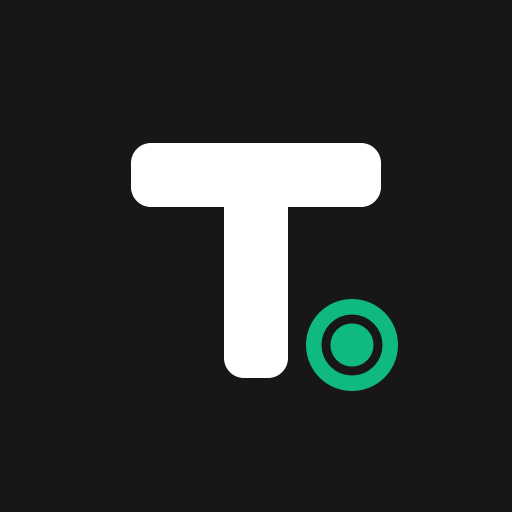
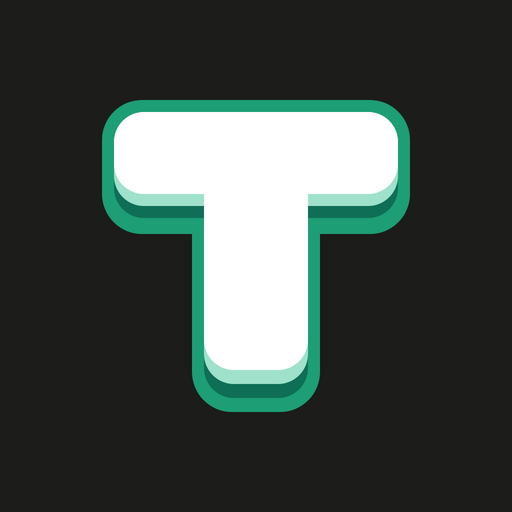
Titan 1.6.6

Changed region(s): [[0.1875, 0.1875, 0.8125, 0.8125]]

diff --git a/apps/web/src/features/settings/SettingsScreen.tsx b/apps/web/src/features/settings/SettingsScreen.tsx
@@ -56,7 +56,7 @@ export function SettingsScreen(props: { onOpenNotifications: () => void }) {
             Quyền riêng tư
           </a>
         </div>
-        <span className="rounded-xl bg-brand-50 px-3 py-1 text-sm font-extrabold text-brand-600">Titan 1.6.5</span>
+        <span className="rounded-xl bg-brand-50 px-3 py-1 text-sm font-extrabold text-brand-600">Titan 1.6.6</span>
       </section>
 
       <Sheet open={open === 'notify'} onClose={close} title="Thông báo" autoFocus={false}>

diff --git a/apps/web/index.html b/apps/web/index.html
@@ -4,6 +4,7 @@
     <meta charset="UTF-8" />
     <link rel="icon" type="image/svg+xml" href="/favicon.svg" />
     <link rel="icon" type="image/png" sizes="48x48" href="/favicon-48.png" />
+    <link rel="icon" href="/favicon.ico" sizes="any" />
     <link rel="apple-touch-icon" href="/apple-touch-icon.png" />
     <meta name="viewport" content="width=device-width, initial-scale=1, maximum-scale=1, user-scalable=no, viewport-fit=cover" />
     <meta name="theme-color" content="#f7f6f2" />

diff --git a/apps/web/vite.config.ts b/apps/web/vite.config.ts
@@ -40,7 +40,7 @@ export default defineConfig({
         icons: [
           { src: '/icon-192.png', sizes: '192x192', type: 'image/png', purpose: 'any' },
           { src: '/icon-512.png', sizes: '512x512', type: 'image/png', purpose: 'any' },
-          { src: '/icon-512.png', sizes: '512x512', type: 'image/png', purpose: 'maskable' },
+          { src: '/icon-maskable-512.png', sizes: '512x512', type: 'image/png', purpose: 'maskable' },
         ],
       },
     }),

diff --git a/apps/web/src/sw.ts b/apps/web/src/sw.ts
@@ -24,7 +24,7 @@ self.addEventListener('push', (event) => {
     self.registration.showNotification(data.title ?? 'Titan', {
       body: data.body ?? '',
       icon: '/icon-192.png',
-      badge: '/favicon-48.png',
+      badge: '/badge-48.png', // nền trong suốt: Android tô một màu theo hình
       data: { url: data.url ?? '/' },
     }),
   )

diff --git a/docs/13-logo-brief.md b/docs/13-logo-brief.md
@@ -1,0 +1,84 @@
+# Titan · Ghi chú thiết kế logo
+
+## 1. File cần gửi
+| Mục | Yêu cầu |
+|---|---|
+| Định dạng | **SVG** (nét nhất, phóng to không vỡ) và/hoặc **PNG** |
+| Kích thước | Vuông, tối thiểu **1024 × 1024 px** |
+| Nền | **Có màu nền kín** (không trong suốt). iPhone lấp phần trong suốt bằng màu đen |
+| Góc | **Vuông, không tự bo góc**. iPhone / Android tự bo, bo sẵn sẽ thành viền lạ |
+| Bản phụ (nên có) | Một bản **chỉ có hình, nền trong suốt** để dùng trong app (màn khởi động, thẻ Phiên bản) |
+
+## 2. Vùng an toàn
+- Hình chính nằm gọn trong **khung 80% ở giữa** (với file 1024 px: khoảng 820 × 820 px ở giữa).
+- Android có thể cắt icon thành **hình tròn** (bản "maskable"): chi tiết quan trọng nên nằm trong **vòng tròn đường kính 80%**.
+- Không đặt chữ, chi tiết nhỏ sát mép.
+
+## 3. Phải nhìn rõ ở cỡ nhỏ
+Logo sẽ hiện ở các cỡ:
+
+| Chỗ | Cỡ |
+|---|---|
+| Màn hình chính iPhone | 180 × 180 (hiển thị khoảng 60 pt) |
+| Icon app (PWA) | 192 × 192, 512 × 512 |
+| Tab trình duyệt | 48 × 48, 32 × 32, 16 × 16 |
+
+Thử thu logo xuống **48 px**: vẫn nhận ra thì đạt. Nên:
+- Hình khối đơn giản, nét dày; tránh nét mảnh dưới khoảng 2% chiều rộng.
+- Nhiều nhất 2–3 màu.
+- Nếu có chữ, chỉ nên 1 ký tự (ví dụ chữ "T"); chữ "Titan" đầy đủ sẽ không đọc được ở cỡ nhỏ.
+
+## 4. Màu của app
+
+### Xanh lá chủ đạo (brand)
+| Tên | Mã | Dùng trong app |
+|---|---|---|
+| brand-50 | `#E1F5EE` | Nền nhạt (ô thông tin, chip) |
+| brand-100 | `#C2ECDD` | |
+| brand-200 | `#9FE1CB` | Viền nhạt |
+| brand-300 | `#5DCAA5` | |
+| **brand-400** | **`#1D9E75`** | **Màu chính**: nút chính, thẻ hạn mức hôm nay, thanh tiến độ |
+| brand-500 | `#168A66` | Chữ / icon xanh đậm |
+| **brand-600** | **`#0F6E56`** | **Viền dưới nút 3D**, chữ trên nền nhạt |
+| brand-700 | `#0B5C48` | |
+| brand-800 | `#085041` | |
+| brand-900 | `#04342C` | Xanh rất đậm |
+
+Gợi ý cho logo: nền **`#1D9E75`** với hình trắng, hoặc nền trắng/kem với hình **`#1D9E75`** + chi tiết **`#0F6E56`**.
+
+### Màu nền & chữ (ink)
+| Tên | Mã | Dùng |
+|---|---|---|
+| ink-50 | `#F7F6F2` | **Nền trang** (kem nhạt), màu thanh trạng thái |
+| ink-100 | `#EFEDE6` | Nền ô xám |
+| ink-500 | `#888780` | Chữ phụ |
+| ink-800 | `#2C2C2A` | |
+| ink-900 | `#1C1C1A` | Chữ chính |
+
+### Màu nhấn (attn, cam vàng — cảnh báo)
+| Tên | Mã |
+|---|---|
+| attn-50 | `#FAEEDA` |
+| attn-200 | `#FAC775` |
+| attn-400 | `#EF9F27` |
+| attn-600 | `#854F0B` |
+
+### Linh vật Két (két sắt titan)
+| Phần | Mã |
+|---|---|
+| Thân sáng → tối | `#EEF2F5` → `#C3CCD4` → `#8B97A3` |
+| Viền / núm | `#5E6A75` |
+| Nét mặt | `#1F2933` |
+
+## 5. Phong cách app (để logo hợp)
+- Kiểu **Duolingo**: hình khối tròn trịa, nút 3D có viền dưới đậm, màu tươi, thân thiện.
+- Font chữ: **Be Vietnam Pro** (đậm, ExtraBold) — dùng font này nếu logo có chữ.
+- Không dùng emoji. Không bóng đổ / gradient quá phức tạp (ở cỡ nhỏ sẽ thành vệt mờ).
+- Ý tưởng gợi ý: chữ **T**, két sắt / Két, đồng xu, ví — miễn đơn giản.
+
+## 6. Trước khi gửi, tự kiểm
+- [ ] Vuông, ≥ 1024 px, nền kín, góc vuông
+- [ ] Hình chính trong vùng 80% ở giữa
+- [ ] Thu nhỏ còn 48 px vẫn nhận ra
+- [ ] Nhìn được trên cả nền sáng và nền tối (màn hình chính chế độ tối)
+- [ ] (Nên có) thêm bản nền trong suốt

diff --git a/docs/releases/v1.6.6.md b/docs/releases/v1.6.6.md
@@ -1,0 +1,10 @@
+# Titan 1.6.6 — Logo mới
+
+**Ngày phát hành:** 09/11/2026 · **Link:** https://titan-ditan.vercel.app
+
+## 🎨 Giao diện
+- **Logo mới**: chữ T xanh Titan (`#1D9E75`) kiểu khối 3D trên nền tối. Thay ở icon màn hình chính iPhone, icon app (PWA, có bản riêng cho Android cắt tròn), icon tab trình duyệt, màn khởi động, màn đăng nhập và thẻ Phiên bản.
+- Icon nhỏ của thông báo dùng bản nền trong suốt.
+
+## Lưu ý
+iPhone giữ icon cũ ở màn hình chính. Muốn thấy logo mới: xóa icon Titan ở màn hình chính rồi mở Safari, thêm lại vào Màn hình chính (dữ liệu và đăng nhập giữ nguyên, nhớ bật lại thông báo).
